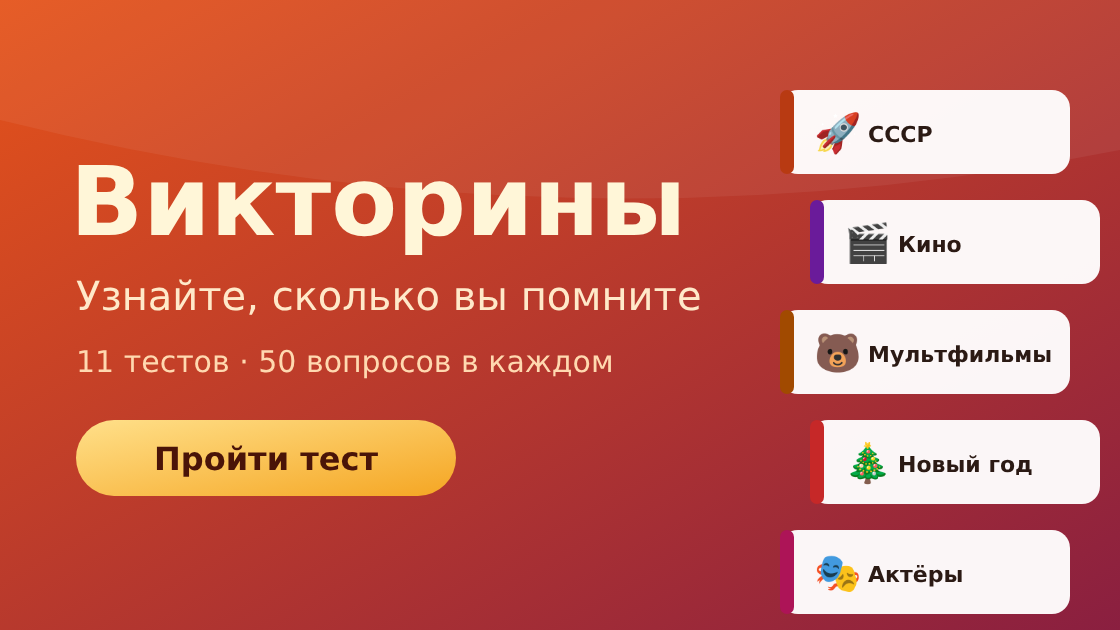
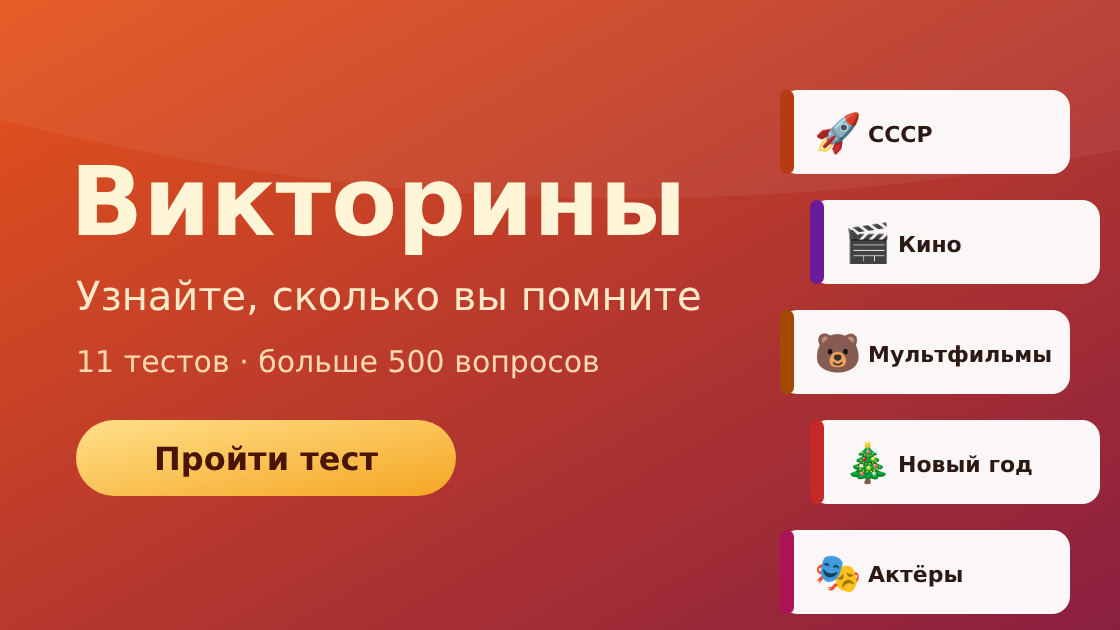
Пакет ВК/ОК: точные тексты — по 50 вопросов в тесте, примеры вопросов из самих тестов; на обложке «больше 500 вопросов»
Claude-Session: https://claude.ai/code/session_01MjZFv1EZUNVdpxW46ib1Un

Changed region(s): [[0.2188, 0.5429, 0.5625, 0.6032]]

diff --git a/tools/release-art.js b/tools/release-art.js
@@ -43,7 +43,7 @@ function snippetSvg() {
   <path d="M0 0H1120V150Q560 260 0 120z" fill="#fff" opacity=".06"/>
   <text x="70" y="235" font-family="${SANS}" font-weight="700" font-size="96" fill="#fff6d8">Викторины</text>
   <text x="76" y="310" font-family="${SANS}" font-size="40" fill="#ffe9c9">Узнайте, сколько вы помните</text>
-  <text x="76" y="372" font-family="${SANS}" font-size="30" fill="#ffd9b0">11 тестов  ·  50 вопросов в каждом</text>
+  <text x="76" y="372" font-family="${SANS}" font-size="30" fill="#ffd9b0">11 тестов  ·  больше 500 вопросов</text>
   <rect x="76" y="420" width="380" height="76" rx="38" fill="url(#gold)"/>
   <text x="266" y="470" text-anchor="middle" font-family="${SANS}" font-weight="700" font-size="32" fill="#4a1408">Пройти тест</text>
   <g transform="translate(780 90)">

diff --git a/release/vk/texts.md b/release/vk/texts.md
@@ -13,13 +13,13 @@
 **Тесты про СССР, кино, песни и мультфильмы. Тест дня, результат и звание — поделитесь с друзьями!** (97)
 
 ## Полное описание (до 2000 знаков)
-Помните, сколько стоил проезд в метро? Кто спел «Зелёные рукава»? Из какого фильма фраза «Шереметьево! Нас туда не пустят»? Проверьте себя в викторинах — крупные кнопки, простые вопросы, никакой спешки.
+Помните, сколько стоил проезд в метро? Как называли сетчатую сумку «на всякий случай»? Кто был талисманом Олимпиады-80? Проверьте себя в викторинах — крупные кнопки, простые вопросы, никакой спешки.
 
 Что есть в «Викторинах»:
 • 11 тестов: «СССР», «Песни лохматых годов», «Кино», «Угадай фильм по цитате», «Актёры», «Мультфильмы», «Новый год», «Транспорт СССР», «Города», «Природа» и «Проверь память»;
-• в каждом тесте больше 50 вопросов, а за одно прохождение вы получаете 10 случайных — пройти тот же тест второй раз всё равно интересно;
+• в каждом тесте по 50 вопросов, а за одно прохождение вы получаете 10 случайных — пройти тот же тест второй раз всё равно интересно;
 • после каждого ответа — короткое «А вы знали?»: узнаёте что-то новое;
-• в конце — ваш результат и смешное звание, например «Передовик производства» или «Знаток „Союзмультфильма“»;
+• в конце — ваш результат и смешное звание, например «Передовик производства» или «Знаток «Союзмультфильма»»;
 • «Тест дня» — каждый день на главном экране новый тест;
 • «Проверь память» — картинка на несколько секунд, потом вопрос о ней;
 • подсказка «50 на 50» — после просмотра короткой рекламы уберёт два неверных ответа. Без рекламы тест тоже проходится полностью;
